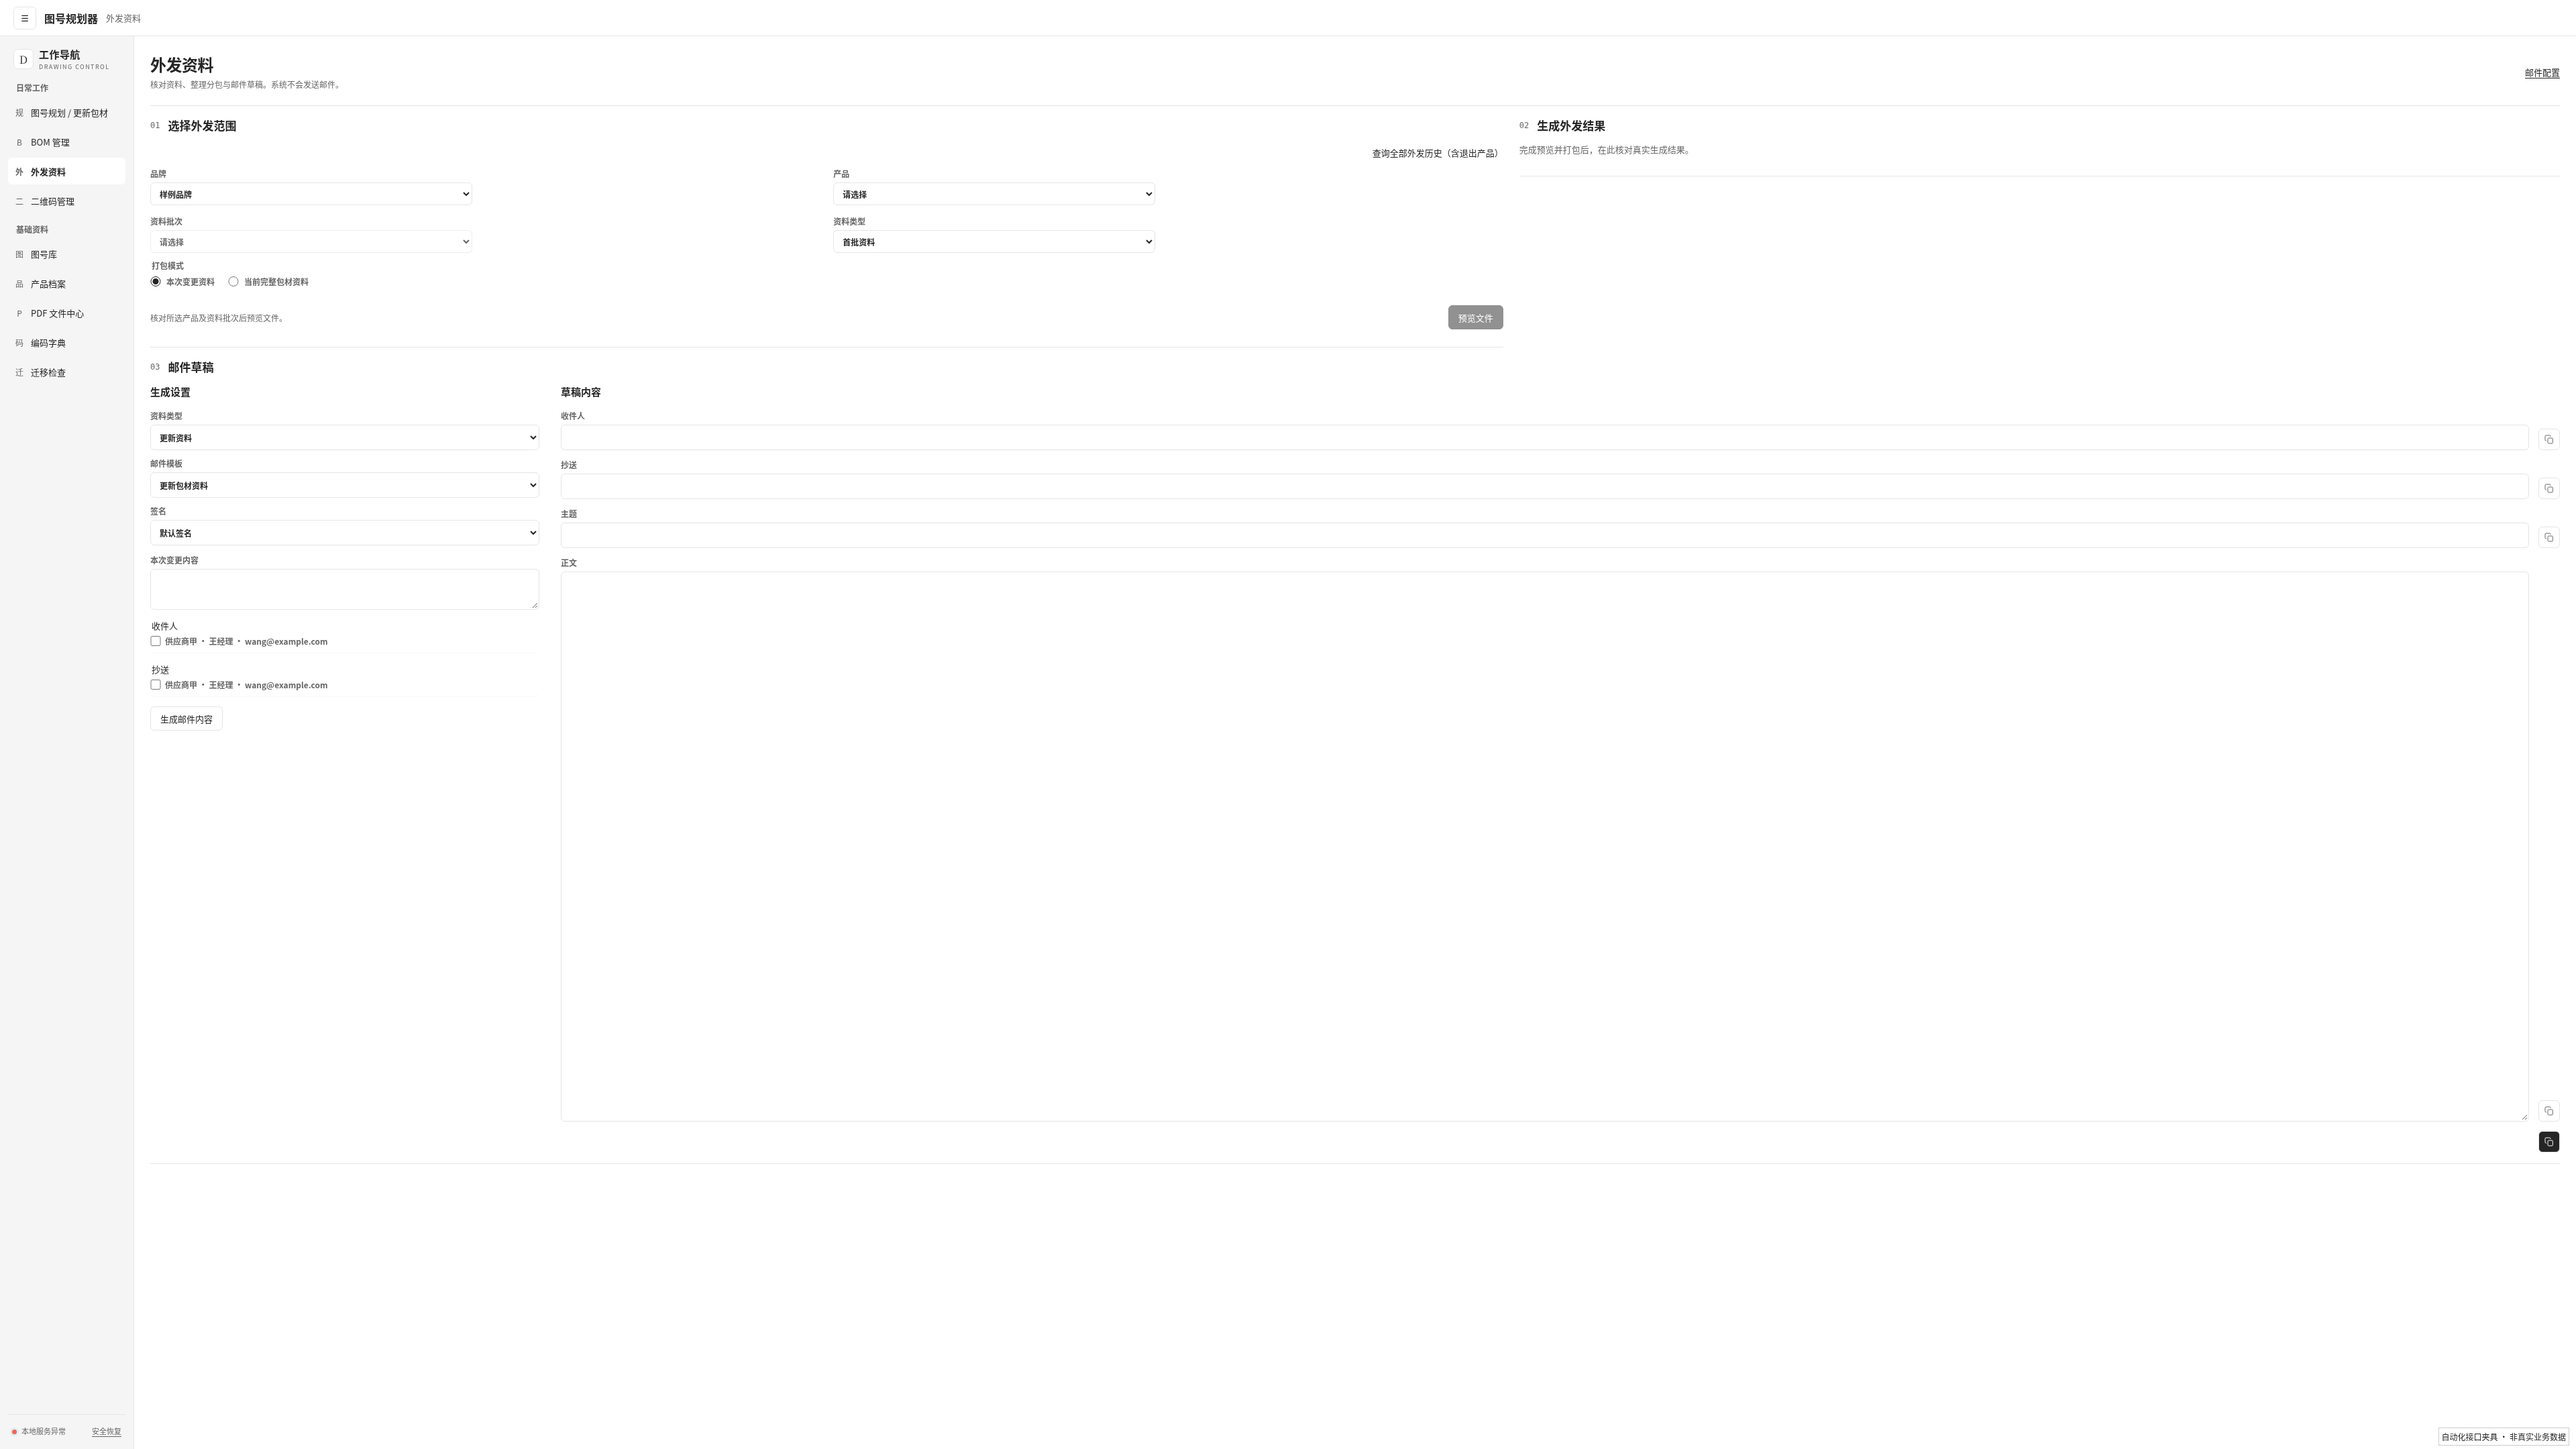
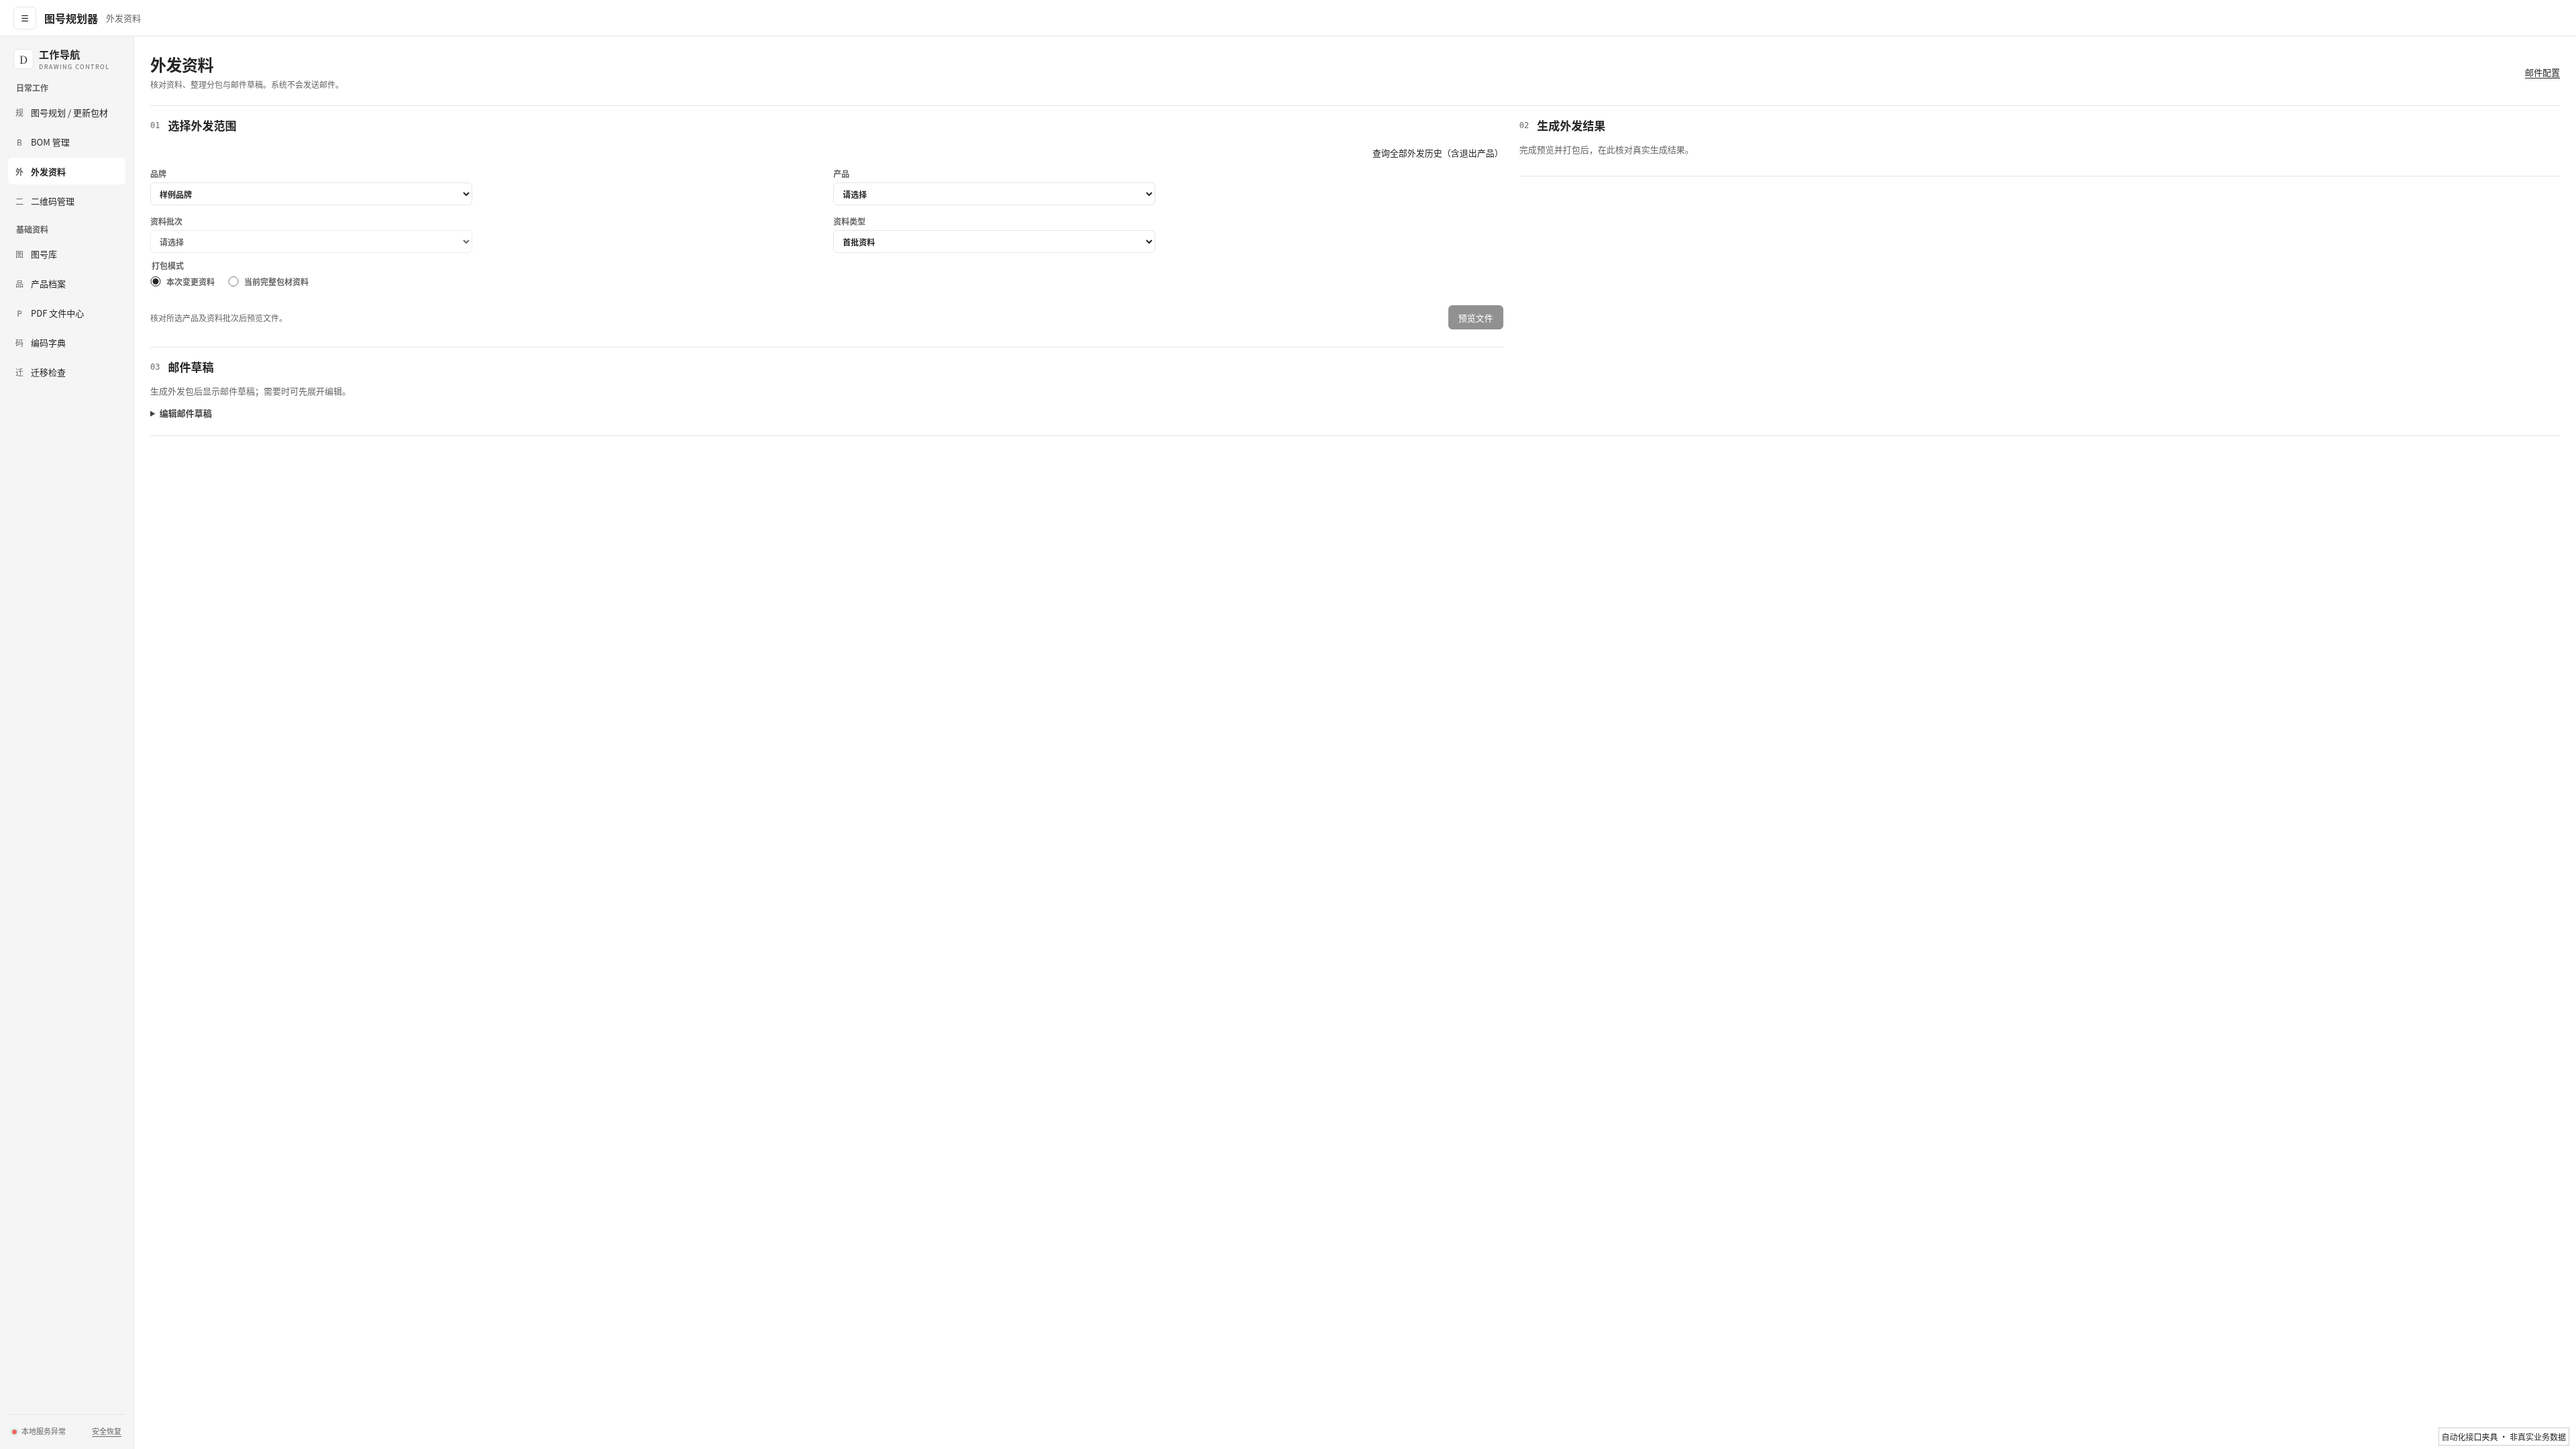
fix: finalize orphan batch navigation and compact outbound empty state

Changed region(s): [[0.0625, 0.2481, 0.0938, 0.3412], [0.9688, 0.7755, 1.0, 0.8065], [0.0625, 0.4653, 0.0938, 0.4963]]

diff --git a/tests/renderer/outbound-page.test.tsx b/tests/renderer/outbound-page.test.tsx
@@ -167,6 +167,8 @@ describe('OutboundPage', () => {
     render(<OutboundPage api={api as never} />);
     expect(await screen.findByRole('button', { name: '预览文件' })).toBeVisible();
     expect(screen.getByRole('heading', { name: '邮件草稿' })).toBeVisible();
+    expect(screen.getByLabelText('正文')).not.toBeVisible();
+    fireEvent.click(screen.getByText('编辑邮件草稿', {selector:'summary'}));
     expect(screen.getByLabelText('正文')).toBeVisible();
     fireEvent.change(screen.getByLabelText('正文'), { target: { value: '保留草稿' } });
     fireEvent.click(screen.getByRole('button', { name: '邮件配置' }));
@@ -316,6 +318,7 @@ describe('OutboundPage', () => {
     const writeText = vi.fn().mockResolvedValue(undefined); Object.assign(navigator, { clipboard: { writeText } });
     const api = apiFixture(); render(<OutboundPage api={api as never} />);
     expect(await screen.findByRole('heading', { name: '邮件草稿' })).toBeVisible();
+    fireEvent.click(screen.getByText('编辑邮件草稿', {selector:'summary'}));
     fireEvent.click(await screen.findByLabelText('收件人 王经理'));
     fireEvent.click(screen.getByLabelText('附加段落 METI 后更新'));
     fireEvent.click(screen.getByRole('button', { name: '生成邮件内容' }));
@@ -389,6 +392,7 @@ describe('OutboundPage', () => {
     const api = apiFixture(); api.renderOutboundTemplate.mockRejectedValue(new Error('模板变量缺失'));
     render(<OutboundPage api={api as never} />);
     expect(await screen.findByRole('heading', { name: '邮件草稿' })).toBeVisible();
+    fireEvent.click(screen.getByText('编辑邮件草稿', {selector:'summary'}));
     fireEvent.change(await screen.findByLabelText('本次变更内容'), { target: { value: '保留此内容' } });
     fireEvent.click(screen.getByRole('button', { name: '生成邮件内容' }));
     expect(await screen.findByText('模板变量缺失')).toBeVisible();
@@ -403,6 +407,7 @@ describe('OutboundPage', () => {
     ]);
     render(<OutboundPage api={api as never} />);
     expect(await screen.findByRole('heading', { name: '邮件草稿' })).toBeVisible();
+    fireEvent.click(screen.getByText('编辑邮件草稿', {selector:'summary'}));
     fireEvent.change(await screen.findByLabelText('邮件资料类型'), { target: { value: 'initial' } });
     expect(screen.queryByLabelText('本次变更内容')).not.toBeInTheDocument();
     fireEvent.click(screen.getByRole('button', { name: '生成邮件内容' }));
@@ -441,6 +446,7 @@ describe('OutboundPage', () => {
   it('keeps template blocks and signatures maintainable from the email settings area', async () => {
     const api = apiFixture(); render(<OutboundPage api={api as never} />);
     expect(await screen.findByRole('heading', { name: '邮件草稿' })).toBeVisible();
+    fireEvent.click(screen.getByText('编辑邮件草稿', {selector:'summary'}));
     fireEvent.click(screen.getByRole('button', { name: '邮件配置' }));
     expect(await screen.findByRole('button', { name: '编辑模板 更新资料' })).toBeVisible();
     fireEvent.click(screen.getByText('附加段落'));
@@ -462,6 +468,7 @@ describe('OutboundPage', () => {
     const api = apiFixture(); api.updateOutboundTemplate.mockRejectedValue(new Error('模板编码冲突'));
     render(<OutboundPage api={api as never} />);
     expect(await screen.findByRole('heading', { name: '邮件草稿' })).toBeVisible();
+    fireEvent.click(screen.getByText('编辑邮件草稿', {selector:'summary'}));
     fireEvent.click(screen.getByRole('button', { name: '邮件配置' }));
     fireEvent.click(await screen.findByRole('button', { name: '编辑模板 更新资料' }));
     fireEvent.change(screen.getByLabelText('模板名称'), { target: { value: '未保存模板名' } });
@@ -474,6 +481,7 @@ describe('OutboundPage', () => {
     const api = apiFixture();
     render(<OutboundPage api={api as never} />);
     expect(await screen.findByRole('heading', { name: '邮件草稿' })).toBeVisible();
+    fireEvent.click(screen.getByText('编辑邮件草稿', {selector:'summary'}));
     fireEvent.click(screen.getByRole('button', { name: '邮件配置' }));
 
     fireEvent.click(await screen.findByRole('button', { name: '新增邮件模板' }));
@@ -506,6 +514,7 @@ describe('OutboundPage', () => {
     api.createOutboundSignature.mockRejectedValue(new Error('签名名称已存在'));
     render(<OutboundPage api={api as never} />);
     expect(await screen.findByRole('heading', { name: '邮件草稿' })).toBeVisible();
+    fireEvent.click(screen.getByText('编辑邮件草稿', {selector:'summary'}));
     fireEvent.click(screen.getByRole('button', { name: '邮件配置' }));
     fireEvent.click(screen.getByRole('tab', { name: '邮件签名' }));
     fireEvent.click(await screen.findByRole('button', { name: '新增邮件签名' }));

diff --git a/src/renderer/components/ProductBatchNavigation.tsx b/src/renderer/components/ProductBatchNavigation.tsx
@@ -7,6 +7,7 @@ export function ProductBatchNavigation({ products, batches, scope, onSelect, mod
   const visible = products.filter(product => `${product.sku ?? ''} ${product.model}`.toLowerCase().includes(keyword.toLowerCase()));
   const categories = [...new Set(visible.map(product => product.productCategory || '未分类'))];
   return <nav className="product-batch-navigation" aria-label={mode === 'files' ? '资料导航' : '图号产品与批次'}>
+    <h2>产品与批次</h2>
     <input aria-label="搜索产品 SKU 或型号" placeholder="搜索 SKU / 型号" value={keyword} onChange={event => setKeyword(event.target.value)} />
     <button type="button" aria-current={scope.kind === 'all' ? 'page' : undefined} onClick={() => onSelect({kind:'all',title:'全部图号'})}>{mode === 'files' ? '全部产品／批次' : '全部产品 / 批次'}</button>
     {categories.map(category => <details key={category} open><summary>{category}</summary>{visible.filter(product => (product.productCategory || '未分类') === category).map(product => <details key={product.id}>
@@ -14,6 +15,7 @@ export function ProductBatchNavigation({ products, batches, scope, onSelect, mod
       <button type="button" aria-label={`${mode === 'files' ? '产品' : '产品全部图号'} ${product.sku ?? '待补录'} · ${product.model}`} aria-current={scope.kind === 'product' && scope.productId === product.id ? 'page' : undefined} onClick={() => onSelect({kind:'product',productId:product.id,title:`${product.sku ?? '待补录'} · ${product.model}`})}>产品全部图号</button>
       {batches.filter(batch => batch.productId === product.id || batch.usageProducts?.some(usage => usage.productId === product.id)).map(batch => { const usage = mode === 'files' ? {state:batch.recognitionStatus === 'pending' ? 'pending' : batch.currentState} : batch.usageProducts?.find(usage => usage.productId === product.id); return <button type="button" className="product-batch-leaf" key={batch.id} aria-current={scope.kind === 'batch' && scope.batchId === batch.id && scope.productId === product.id ? 'page' : undefined} onClick={() => onSelect({kind:'batch',productId:product.id,batchId:batch.id,title:`${product.model} / ${materialBatchLabel(batch.name)}`})}>{materialBatchLabel(batch.name)} <small>{usage?.state === 'current' ? '当前使用' : usage?.state === 'historical' ? '历史使用' : usage?.state === 'pending' ? '待确认' : '未确定'}</small></button>; })}
     </details>)}</details>)}
+    <details><summary>其他／待关联批次</summary>{batches.filter(batch => !products.some(product => batch.productId === product.id || mode === 'drawings' && batch.usageProducts?.some(usage => usage.productId === product.id))).map(batch => <button type="button" key={batch.id} aria-current={scope.kind === 'batch' && scope.batchId === batch.id ? 'page' : undefined} onClick={() => onSelect({kind:'batch',batchId:batch.id,title:materialBatchLabel(batch.name)})}>{materialBatchLabel(batch.name)} · {batch.recognitionStatus === 'pending' ? '待确认' : '未关联产品'}</button>)}</details>
     {mode === 'drawings' && <><button type="button" aria-current={scope.kind === 'pending' ? 'page' : undefined} onClick={() => onSelect({kind:'pending',title:'待关联 / 未归批次'})}>待关联 / 未归批次</button>
     <button type="button" aria-current={scope.kind === 'recycle' ? 'page' : undefined} onClick={() => onSelect({kind:'recycle',title:'回收站'})}>回收站</button></>}{footer}
   </nav>;

diff --git a/src/renderer/pages/DrawingLibraryPage.tsx b/src/renderer/pages/DrawingLibraryPage.tsx
@@ -269,7 +269,7 @@ export function DrawingLibraryPage({ api: realApi, active = true, onNavigatePdf,
     {mockMode && <p className="info-banner preview-only-banner">开发预览 Mock：维护及磁盘操作已禁用，仅展示内存样例。关闭方式：移除 URL 中的 <code>?mock=drawing-library</code>。</p>}
     {error && !selected && <p className="error-banner" role="alert">{error}</p>}
     <ModuleWorkspace drawingWorkspace resizable navigation={<ProductBatchNavigation products={products} batches={navigationBatches} scope={scope} onSelect={navigateScope} />} detail={detailPanel} detailLabel="图号详情" detailIdentity={selected?.id} onCloseDetail={() => {if(maintainingRef.current) return; detailRequest.current++; pdfRequest.current++; setSelected(null);}}>
-    <h2 className="drawing-scope-title">{scope.title}</h2>
+    <h2 className="drawing-scope-title">{scope.title}</h2>{scope.kind === 'batch' && <p className="muted-text">{(() => {const batch=navigationBatches.find(item=>item.id===scope.batchId);const state=scope.productId ? batch?.usageProducts.find(item=>item.productId===scope.productId)?.state : batch?.currentState;return state==='current'?'当前批次实际使用图号':state==='historical'?'历史批次实际使用图号':'该批次实际使用图号；当前使用关系未确定';})()}</p>}
     <form className="filter-bar filter-grid" onSubmit={submit}>
       <label><span>关键词</span><input aria-label="关键词" value={filters.keyword} onChange={(event) => set('keyword', event.target.value)} /></label>
       <button className="primary-button" type="submit" disabled={loading}>{loading ? '检索中…' : '检索'}</button>

diff --git a/src/renderer/pages/drawing-library.css b/src/renderer/pages/drawing-library.css
@@ -42,3 +42,4 @@
 .drawing-library-page .module-list table {min-width:940px;}
 .drawing-library-page .module-list th:last-child,.drawing-library-page .module-list td:last-child {position:sticky;right:0;background:#fff;white-space:nowrap;}
 .drawing-library-page .module-list th:last-child {background:#f6f6f6;}
+.product-batch-navigation > h2 {font-size:16px;margin:0 0 4px;}
